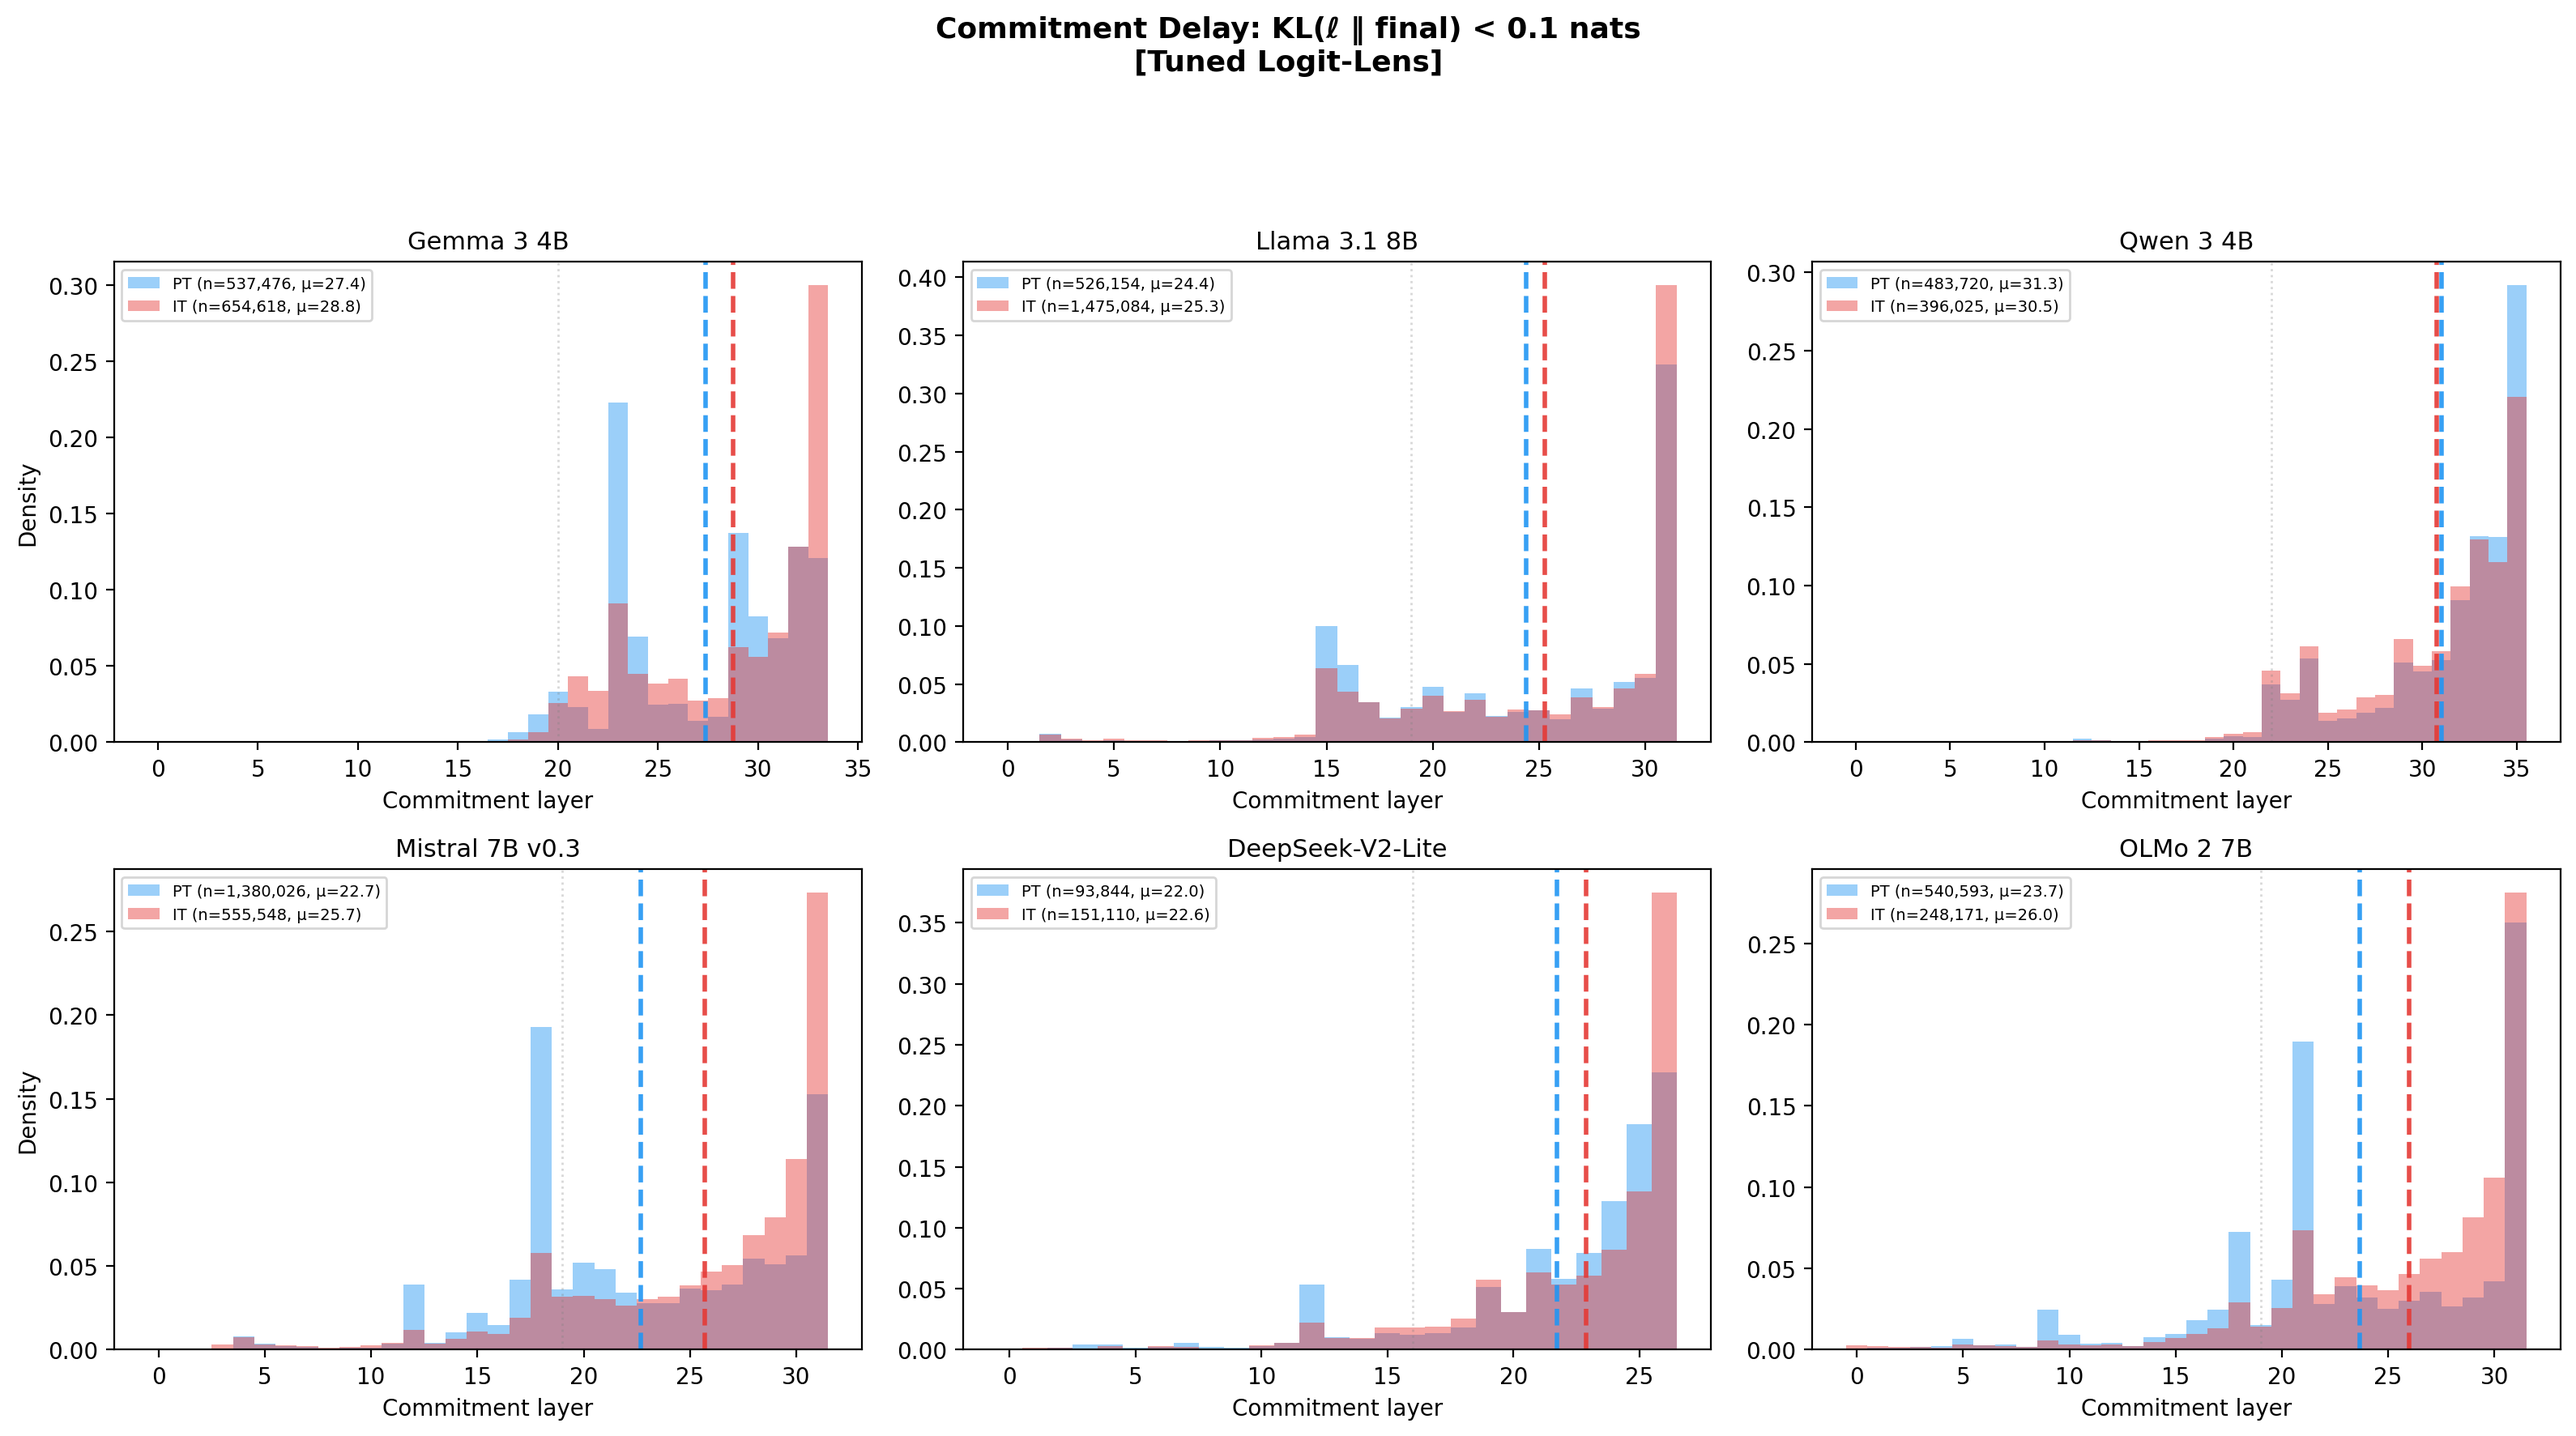
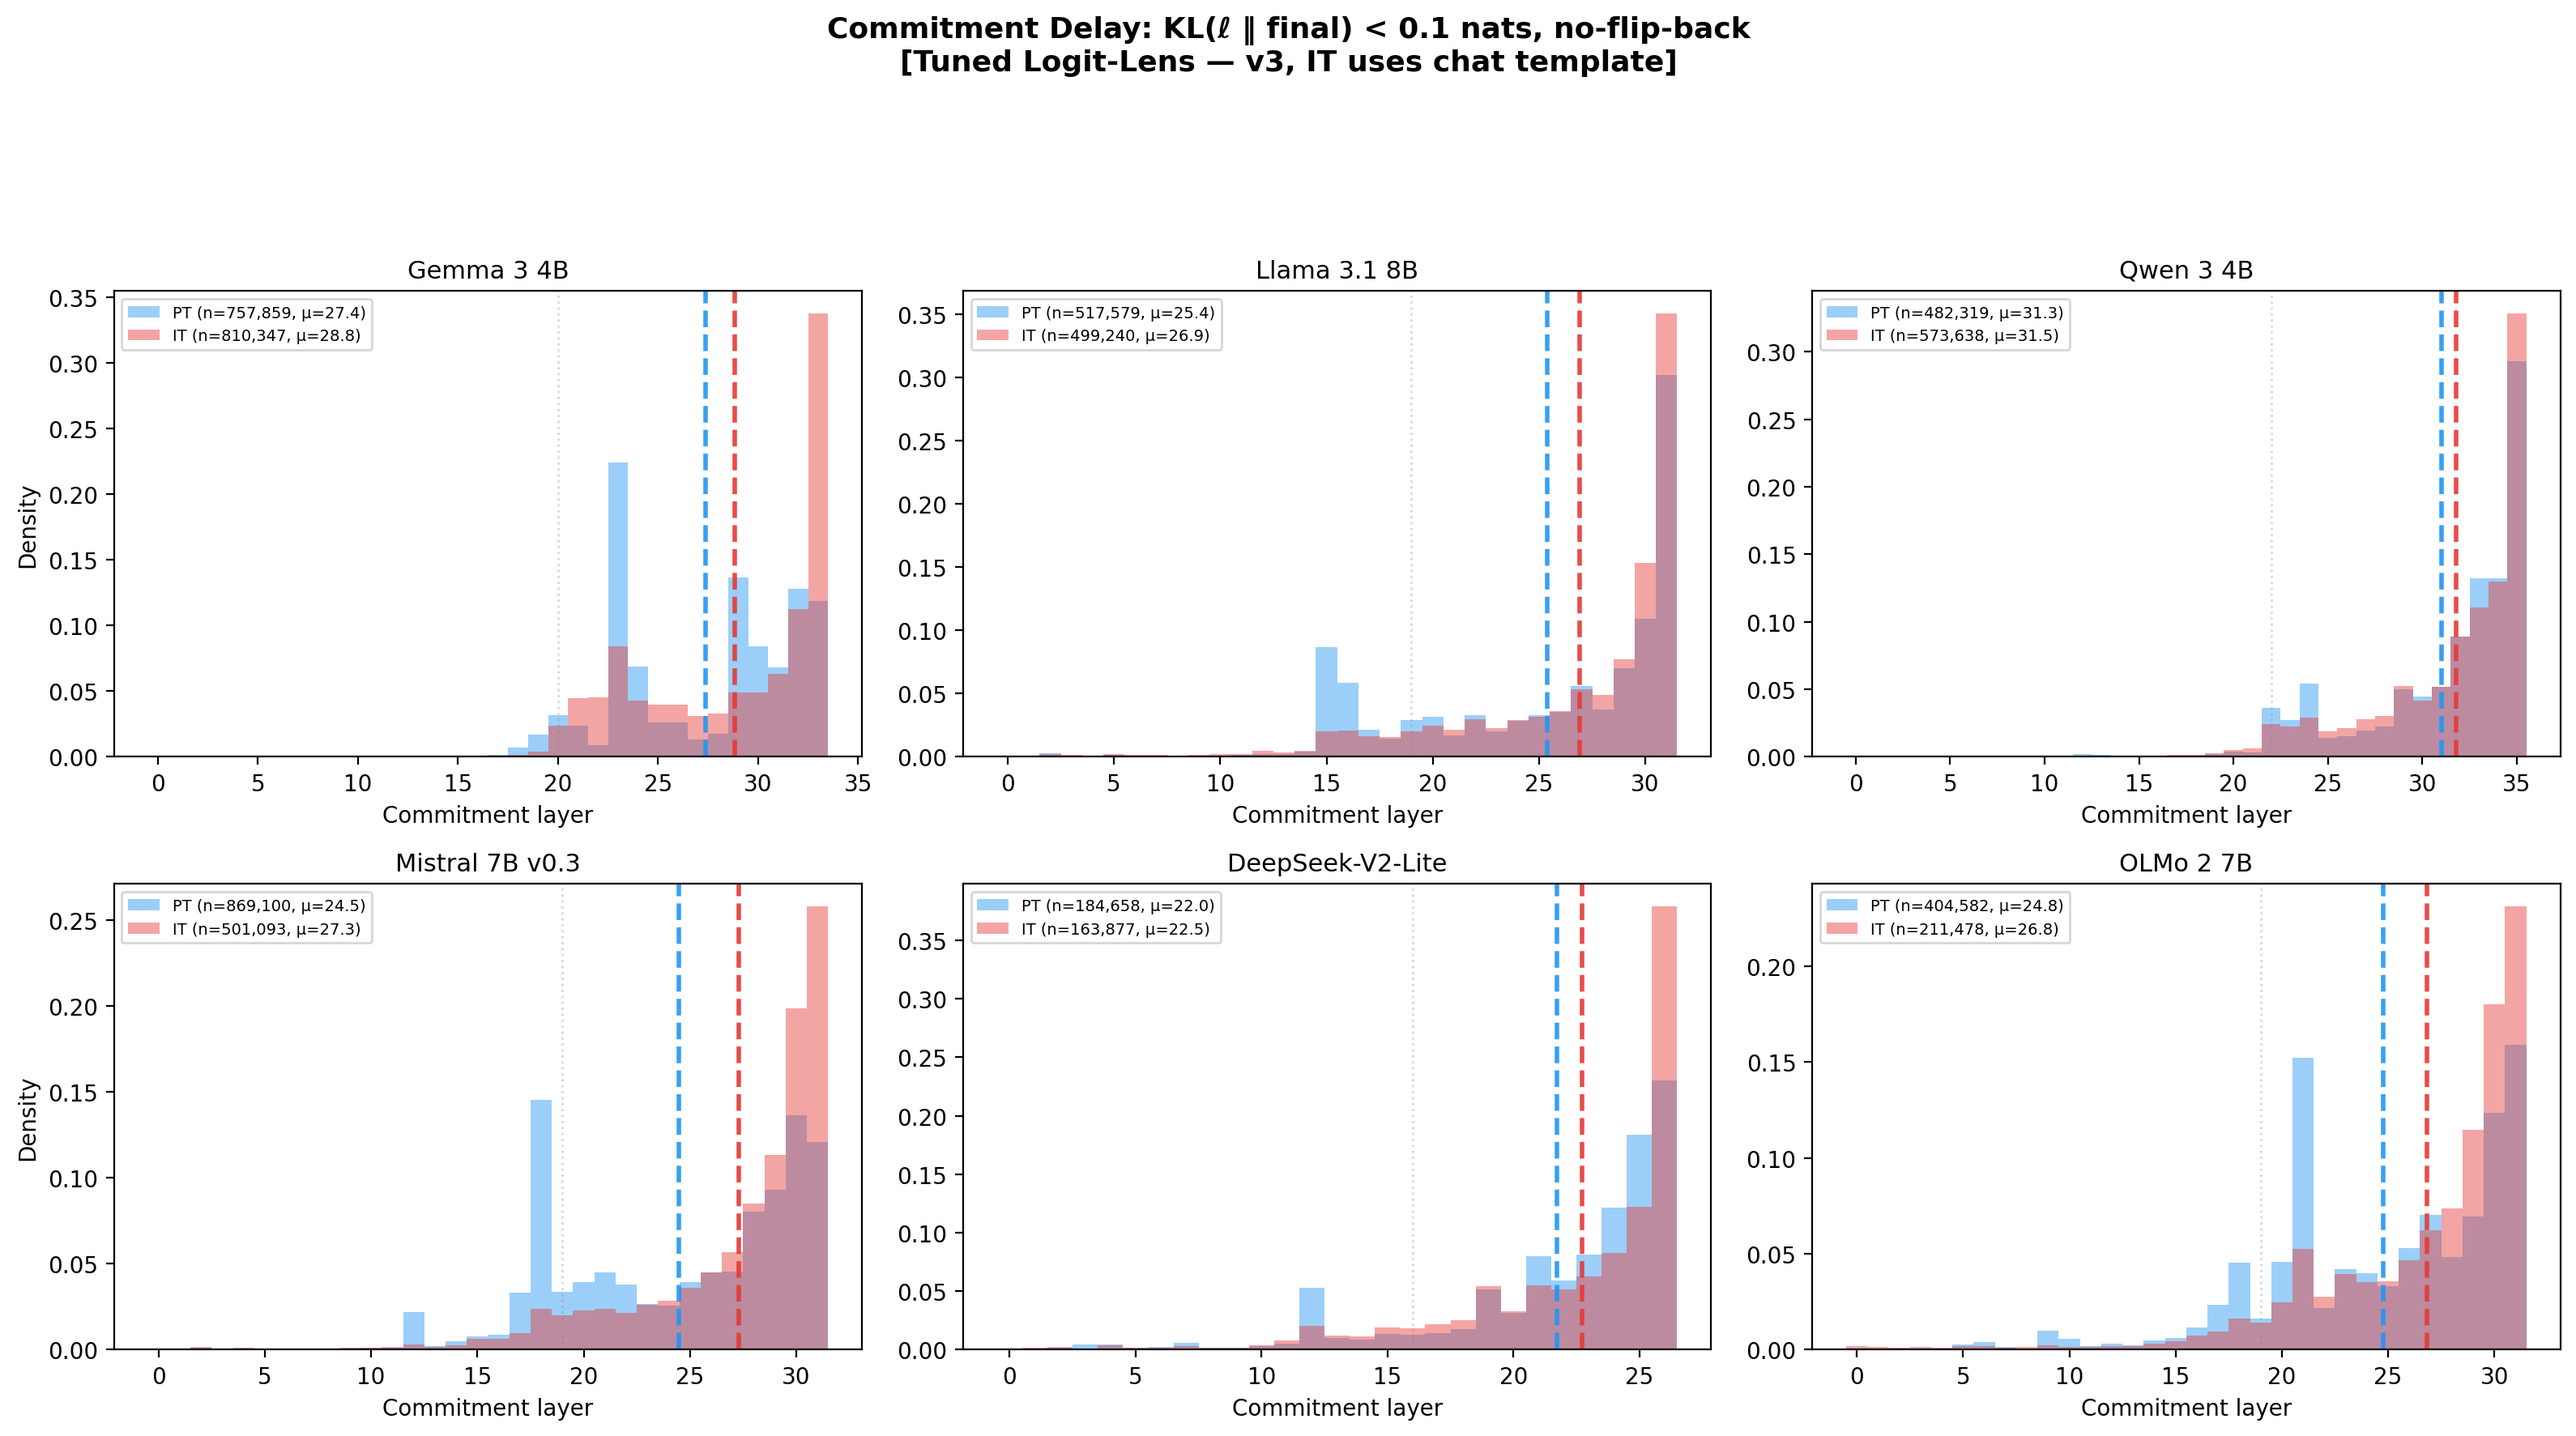
new results

diff --git a/scripts/modal_validate_fast_eval.py b/scripts/modal_validate_fast_eval.py
@@ -1,0 +1,152 @@
+"""
+Validate eval_commitment_fast vs eval_commitment on a real model.
+Runs both on the same 5 prompts and compares output bit-for-bit.
+
+    modal run scripts/modal_validate_fast_eval.py
+"""
+from __future__ import annotations
+import modal
+
+app = modal.App("validate-fast-eval")
+
+probes_vol = modal.Volume.from_name("0g-probes-v3", create_if_missing=True)
+hf_cache_vol = modal.Volume.from_name("0g-hf-cache", create_if_missing=True)
+
+image = (
+    modal.Image.debian_slim(python_version="3.11")
+    .pip_install(
+        "torch>=2.7.0", "transformers==4.57.3", "accelerate",
+        "numpy", "scipy", "sentencepiece", "protobuf",
+        "huggingface_hub", "safetensors", "einops",
+    )
+    .add_local_python_source("src")
+    .add_local_file("data/exp3_dataset.jsonl", remote_path="/root/data/exp3_dataset.jsonl")
+)
+
+
+@app.function(
+    gpu="B200", timeout=3600, image=image,
+    volumes={"/probes": probes_vol, "/root/.cache/huggingface": hf_cache_vol},
+    secrets=[modal.Secret.from_name("huggingface-token")],
+    memory=65536, cpu=8.0,
+)
+def validate(model_name: str = "llama31_8b", variant: str = "it") -> dict:
+    import json, logging, numpy as np
+    from pathlib import Path
+    import torch
+
+    logging.basicConfig(level=logging.INFO, format="%(asctime)s %(message)s")
+    log = logging.getLogger("validate")
+
+    from src.poc.cross_model.config import get_spec, model_id_for_variant
+    from src.poc.cross_model.adapters import get_adapter
+    from src.poc.cross_model.utils import load_model_and_tokenizer, load_dataset
+    from src.poc.cross_model.tuned_lens import (
+        _load_probes, eval_commitment, eval_commitment_fast,
+    )
+
+    spec = get_spec(model_name)
+    adapter = get_adapter(model_name)
+    device = torch.device("cuda:0")
+
+    probes_vol.reload()
+    probe_dir = Path(f"/probes/{model_name}/{variant}")
+    probes = _load_probes(probe_dir, spec.d_model, device)
+    log.info("Loaded %d probes", len(probes))
+
+    model_id = model_id_for_variant(spec, variant)
+    model, tokenizer = load_model_and_tokenizer(model_id, device, eager_attn=spec.is_moe)
+    model.requires_grad_(False)
+
+    records = load_dataset("/root/data/exp3_dataset.jsonl", n_examples=5)
+    log.info("Testing on %d prompts", len(records))
+
+    use_template = variant == "it"
+
+    # Run ORIGINAL eval
+    log.info("=== Running eval_commitment (original) ===")
+    out_orig = Path("/tmp/test_orig.jsonl")
+    arr_orig = Path("/tmp/arrays_orig")
+    eval_commitment(
+        model, tokenizer, adapter, spec, probes, records, device,
+        output_path=out_orig, variant=variant, max_new_tokens=50,
+        collect_full=True, arrays_dir=arr_orig,
+        apply_chat_template=use_template,
+    )
+
+    # Run FAST eval
+    log.info("=== Running eval_commitment_fast (new) ===")
+    out_fast = Path("/tmp/test_fast.jsonl")
+    arr_fast = Path("/tmp/arrays_fast")
+    eval_commitment_fast(
+        model, tokenizer, adapter, spec, probes, records, device,
+        output_path=out_fast, variant=variant, max_new_tokens=50,
+        collect_full=True, arrays_dir=arr_fast,
+        apply_chat_template=use_template,
+    )
+
+    # Compare JSONL
+    log.info("=== Comparing results ===")
+    with open(out_orig) as f:
+        orig_lines = [json.loads(l) for l in f]
+    with open(out_fast) as f:
+        fast_lines = [json.loads(l) for l in f]
+
+    results = {"model": model_name, "variant": variant, "n_prompts": len(records)}
+
+    # Compare prompt-by-prompt
+    mismatches = []
+    for i, (o, f_) in enumerate(zip(orig_lines, fast_lines)):
+        for key in o:
+            if key in ("prompt_id", "model", "variant"):
+                continue
+            if o[key] != f_.get(key):
+                mismatches.append(f"prompt {i}, key={key}: orig={str(o[key])[:50]} vs fast={str(f_.get(key))[:50]}")
+
+    results["jsonl_mismatches"] = len(mismatches)
+    if mismatches:
+        results["first_mismatches"] = mismatches[:10]
+        log.warning("JSONL MISMATCHES: %d", len(mismatches))
+        for m in mismatches[:5]:
+            log.warning("  %s", m)
+    else:
+        log.info("JSONL: EXACT MATCH")
+
+    # Compare NPY arrays
+    for arr_name in ["raw_kl_final.npy", "tuned_kl_final.npy", "raw_top1.npy", "tuned_top1.npy"]:
+        p_orig = arr_orig / arr_name
+        p_fast = arr_fast / arr_name
+        if p_orig.exists() and p_fast.exists():
+            a = np.load(p_orig)
+            b = np.load(p_fast)
+            if a.shape != b.shape:
+                log.warning("%s: SHAPE MISMATCH %s vs %s", arr_name, a.shape, b.shape)
+                results[f"array_{arr_name}_match"] = False
+            else:
+                max_diff = np.abs(a.astype(np.float32) - b.astype(np.float32)).max()
+                results[f"array_{arr_name}_max_diff"] = float(max_diff)
+                if max_diff < 1e-3:
+                    log.info("%s: MATCH (max_diff=%.2e)", arr_name, max_diff)
+                else:
+                    log.warning("%s: DIFF %.2e", arr_name, max_diff)
+
+    results["pass"] = len(mismatches) == 0
+    log.info("=== RESULT: %s ===", "PASS" if results["pass"] else "FAIL")
+    return results
+
+
+@app.local_entrypoint()
+def main():
+    # Test on llama IT (most common case) and deepseek PT (MoE edge case)
+    for model, variant in [("llama31_8b", "it"), ("deepseek_v2_lite", "pt")]:
+        print(f"\n{'='*60}")
+        print(f"Validating {model}/{variant}")
+        print(f"{'='*60}")
+        result = validate.remote(model, variant)
+        print(json.dumps(result, indent=2))
+        if not result.get("pass"):
+            print("FAILED — do not use eval_commitment_fast")
+            return
+    print("\nALL VALIDATIONS PASSED")
+
+import json

diff --git a/src/poc/cross_model/tuned_lens.py b/src/poc/cross_model/tuned_lens.py
@@ -2159,9 +2159,14 @@ def eval_commitment_fast(
                 log.warning("Prompt %s generation failed: %s", pid, e)
                 continue
 
-            n_steps = out_ids.shape[1] - prompt_len
-            if n_steps == 0:
+            n_total_gen = out_ids.shape[1] - prompt_len
+            if n_total_gen <= 1:
                 continue
+            # In autoregressive mode, hooks skip the prefill pass (shape != 1).
+            # The first generated token is produced during prefill — not captured.
+            # So original captures n_total_gen - 1 steps.
+            # We capture all n_total_gen from prefill, then slice off the first one.
+            n_steps = n_total_gen - 1
 
             # ── Phase 2: Prefill with hooks (all positions at once) ───────
             captured: dict[int, torch.Tensor] = {}
@@ -2169,7 +2174,8 @@ def eval_commitment_fast(
             def make_hook(layer_idx: int):
                 def hook(module, inp, output):
                     h = adapter.residual_from_output(output)
-                    # h: [1, full_seq_len, d_model] — keep only generated positions
+                    # h: [1, full_seq_len, d_model]
+                    # Capture all generated positions including the first one
                     captured[layer_idx] = h[0, prompt_len:, :].detach()
                 return hook
 
@@ -2187,14 +2193,19 @@ def eval_commitment_fast(
                     hh.remove()
 
             # ── Phase 2b: Batched metric computation ──────────────────────
-            # Stack all layers: [n_layers, n_steps, d_model]
-            all_h = torch.stack([
+            # Stack all layers: [n_layers, n_total_gen, d_model]
+            # Then slice off position 0 (the prefill-produced first token,
+            # which is skipped by hooks in autoregressive mode).
+            all_h_full = torch.stack([
                 captured[li] if li in captured else torch.zeros(
-                    n_steps, captured[0].shape[1], device=compute_device, dtype=model_dtype)
+                    n_total_gen, captured[0].shape[1], device=compute_device, dtype=model_dtype)
                 for li in range(n_layers)
             ], dim=0).to(device=compute_device, dtype=model_dtype)
+            # Slice: skip first generated position → [n_layers, n_steps, d_model]
+            all_h = all_h_full[:, 1:, :]
+            del all_h_full
 
-            generated_tokens = out_ids[0, prompt_len:].tolist()
+            generated_tokens = out_ids[0, prompt_len + 1:].tolist()
             prompt_start_step = global_step_counter
             should_collect_top5 = collect_full and collect_top5 and top5_prompts_collected < top5_max_prompts
 

diff --git a/scripts/modal_eval_0G_v3.py b/scripts/modal_eval_0G_v3.py
@@ -48,7 +48,7 @@ image = (
         "/root/.cache/huggingface": hf_cache_vol,
     },
     secrets=[modal.Secret.from_name("huggingface-token")],
-    max_containers=6,  # leave GPUs for training + other tasks
+    max_containers=5,
     memory=65536,
     cpu=8.0,
 )
